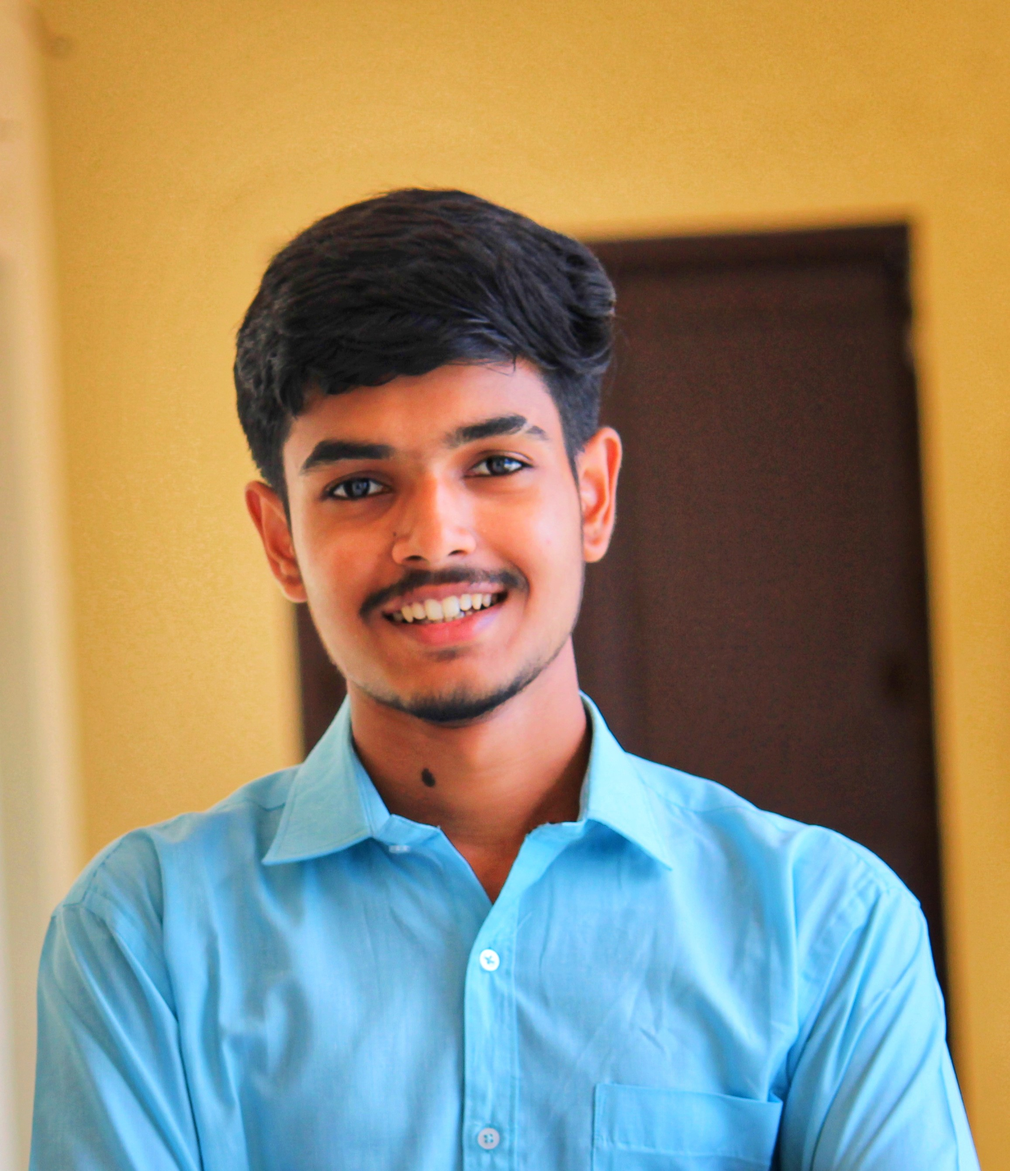
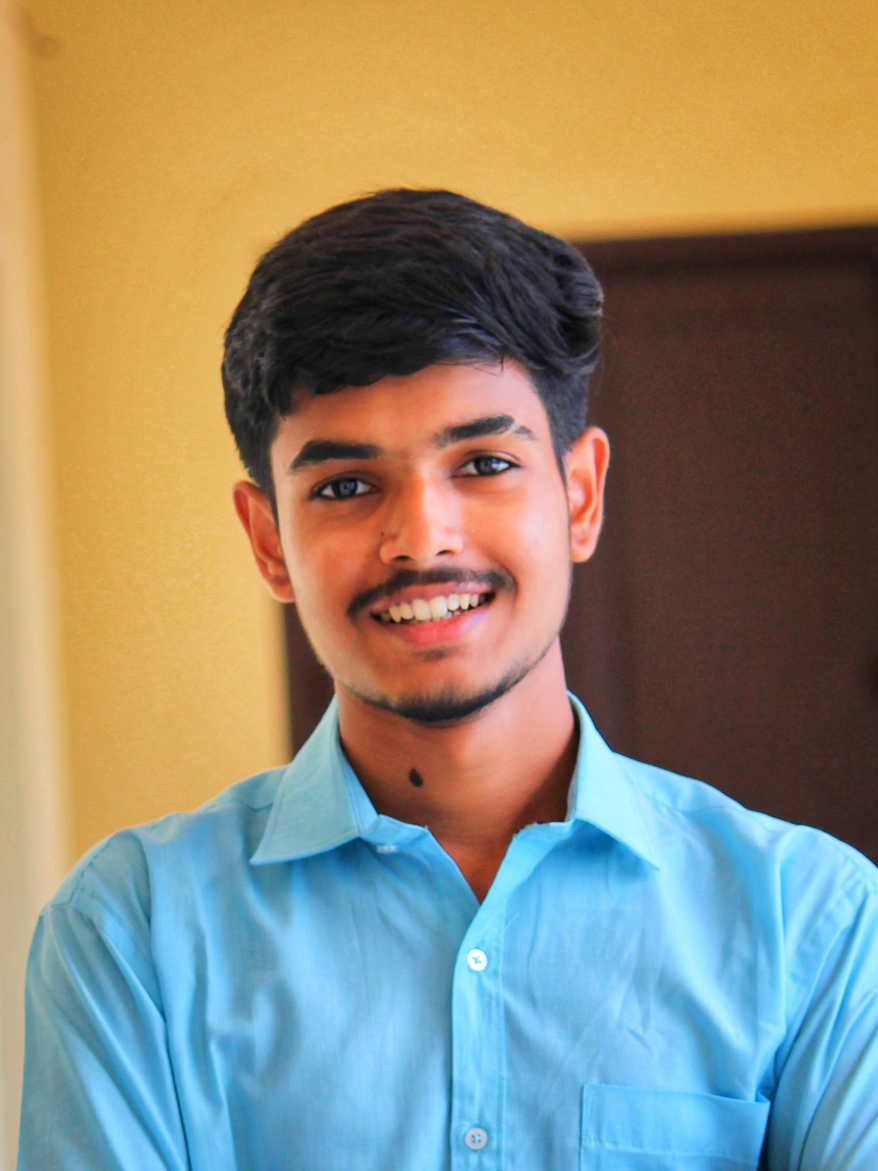
Alignment

diff --git a/Components/pages/coordinatorspage/designing.html b/Components/pages/coordinatorspage/designing.html
@@ -73,7 +73,7 @@
               class="card flex flex-col justify-center items-center bg-gradient-to-r from-orange-300 to-rose-300"
             >
               <img
-                src="../../../Pictures/coordinatorspic/user.png"
+                src="../../../Pictures/coordinatorspic/7.jpg"
                 class="mt-10"
                 alt=""
                 style="width: 50%"
@@ -95,7 +95,7 @@
               class="card flex flex-col justify-center items-center bg-gradient-to-r from-orange-300 to-rose-300"
             >
               <img
-                src="../../../Pictures/coordinatorspic/user.png"
+                src="../../../Pictures/coordinatorspic/Design Habib.jpg"
                 class="mt-10"
                 alt=""
                 style="width: 50%"
@@ -160,7 +160,7 @@
               class="card flex flex-col justify-center items-center bg-gradient-to-r from-orange-300 to-rose-300"
             >
               <img
-                src="../../../Pictures/coordinatorspic/user.png"
+                src="../../../Pictures/coordinatorspic/Design Subrat.jpg"
                 class="mt-10"
                 alt=""
                 style="width: 50%"
@@ -181,7 +181,7 @@
               class="card flex flex-col justify-center items-center bg-gradient-to-r from-orange-300 to-rose-300"
             >
               <img
-                src="../../../Pictures/coordinatorspic/user.png"
+                src="../../../Pictures/coordinatorspic/Design Saranya.jpg"
                 class="mt-10"
                 alt=""
                 style="width: 50%"
